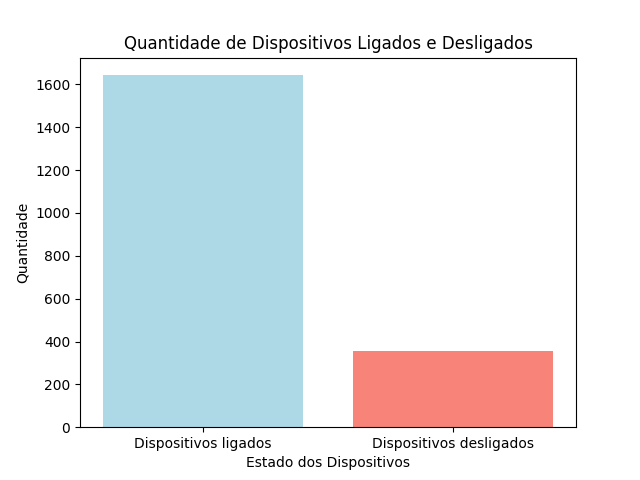
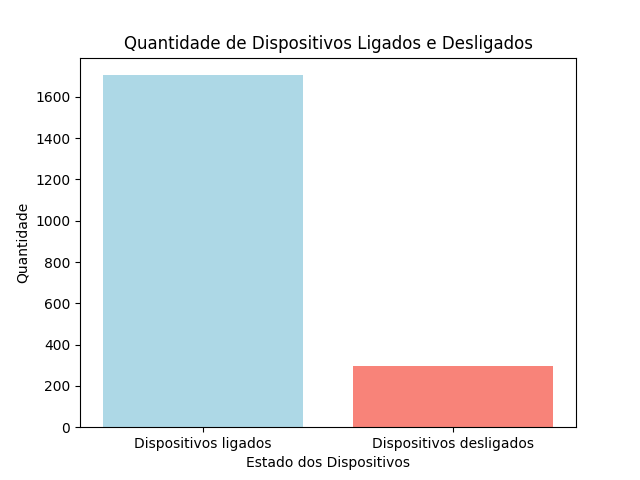
FIX: foi consertado o simulador de maquinas

diff --git a/simuladorDeMaquinas.py b/simuladorDeMaquinas.py
@@ -1,14 +1,18 @@
-import random
-from bancoDeDados import *
+"""Módulo responsável por simular o comportamento de dispositivos."""
 
+#Importa bibliotecas
+import random
+from datetime import datetime
+import time
+from bancoDeDados import *
 
 class SimulaDispositivo:
     @staticmethod
     def gera_dispositivos_randomizados():
-        #Gera IMEIS aleatórios de 8 dígitos
+        #Gera IMEI aleatório de 8 dígitos
         IMEI = int(random.randint(10000000,99999999))
 
-        #Geradatas aleatórias para fabricação, mensagem e erro
+        #Gera datas aleatórias para fabricação, mensagem e erro
         data_de_fabricacao = datetime(random.randint(2015, 2024), random.randint(1, 12), random.randint(1, 28), random.randint(0, 23), random.randint(0, 59), random.randint(0, 59))
         data_da_mensagem = datetime(2024, 3, 20, random.randint(0,int(datetime.now().strftime('%H'))), random.randint(0,int(datetime.now().strftime('%M'))), random.randint(0,int(datetime.now().strftime('%S'))))
         data_do_erro = datetime(2024, 3, random.randint(int(datetime.now().day) - 5, int(datetime.now().day)), random.randint(0,int(datetime.now().strftime('%H'))), random.randint(0,int(datetime.now().strftime('%M'))), random.randint(0,int(datetime.now().strftime('%S'))))
@@ -39,7 +43,7 @@ class SimulaDispositivo:
         if tipo_de_erro != None:
             bd.inserir_erro(tipo_de_erro, IMEI, str(data_do_erro))
         
-        #Insere mensagens no banco de dados
+        #Inserindo mensagens no banco de dados
         bd.inserir_mensagem(tipo_mensagem, IMEI, str(data_da_mensagem))  
 
     @staticmethod
@@ -53,29 +57,32 @@ class SimulaDispositivo:
         #Gera aleatoriamente um tipo de mensagem com base nas probabilidades
         tipo_mensagem = random.choices(list(probabilidades_de_mensagem.keys()), weights=list(probabilidades_de_mensagem.values()))[0]
 
-        #Atualiza as mensagens de acordo com o tipo de mensagem anterior
+        #Atualiza mensagens de acordo com o tipo de mensagem anterior
         if tipo_mensagem == "power_off" and mensagem_anterior != "power_off":
+            bd.atualiza_mensagem(imei, tipo_mensagem)
+
+        elif tipo_mensagem == "power_on" and mensagem_anterior == "power_off":
+            bd.atualiza_mensagem(imei, tipo_mensagem)
+
+        elif tipo_mensagem == "timebased" and mensagem_anterior != "power_off":
             bd.atualiza_mensagem(imei, tipo_mensagem)
 
     @staticmethod
     def inicia_simulacao_de_dispositivos():
-        
         #Verifica se o banco de dados está vazio para a criação do simulador
         if len(bd.retorna_mensagens()) < 1000:
-            
             #Gera 1000 dispositivos aleatórios
             for _ in range(0, 1000):
-                #Gera os dispositivos
+                # Gera os dispositivos
                 SimulaDispositivo.gera_dispositivos_randomizados()
 
         while True:
-            #Retorna a lista de mensagens e embaralha ela para que a ordem de atualização seja aleatória e garanta que algumas máquinas não responderão
+            #Retorna a lista de mensagens e embaralha ela para que a ordem de atualização seja aleatória e garantindo que algumas máquinas não responderão
             lista_de_mensagens = bd.retorna_mensagens()
             random.shuffle(lista_de_mensagens)
 
             #Atualiza a mensagem de quase todos os dispositivos, garantindo que alguns não responderão
             for parametro in range(0, int(len(lista_de_mensagens) - 100)):
-                
                 #Atualiza a mensagem dos dispositivos com base no imei e mensagem anterior
                 SimulaDispositivo.atualizar_maquinas(lista_de_mensagens[parametro][2], lista_de_mensagens[parametro][1])
 

diff --git a/bancoDeDados.py b/bancoDeDados.py
@@ -569,12 +569,12 @@ class BancoDeDados:
         plt.ylabel('Quantidade')
         plt.title('Quantidade de Dispositivos Ligados e Desligados')
 
-        #Salvamento do gráfico em um arquivo
-        plt.savefig('grafico_dispositivos.png')
-        
         #Exclusão do arquivo do gráfico, se já existir
         if os.path.exists('grafico_dispositivos.png'):
             os.remove('grafico_dispositivos.png')
+        
+        #Salvamento do gráfico em um arquivo
+        plt.savefig('grafico_dispositivos.png')
         
         #Fechamento do cursor
         cursor.close()

diff --git a/main.py b/main.py
@@ -92,9 +92,6 @@ if __name__ == "__main__":
     if not os.environ.get("WERKZEUG_RUN_MAIN"): #Executa apenas uma vez
         webbrowser.open("http://127.0.0.1:5000")
 
-
-
-
     app.run(debug=True)
 
     
